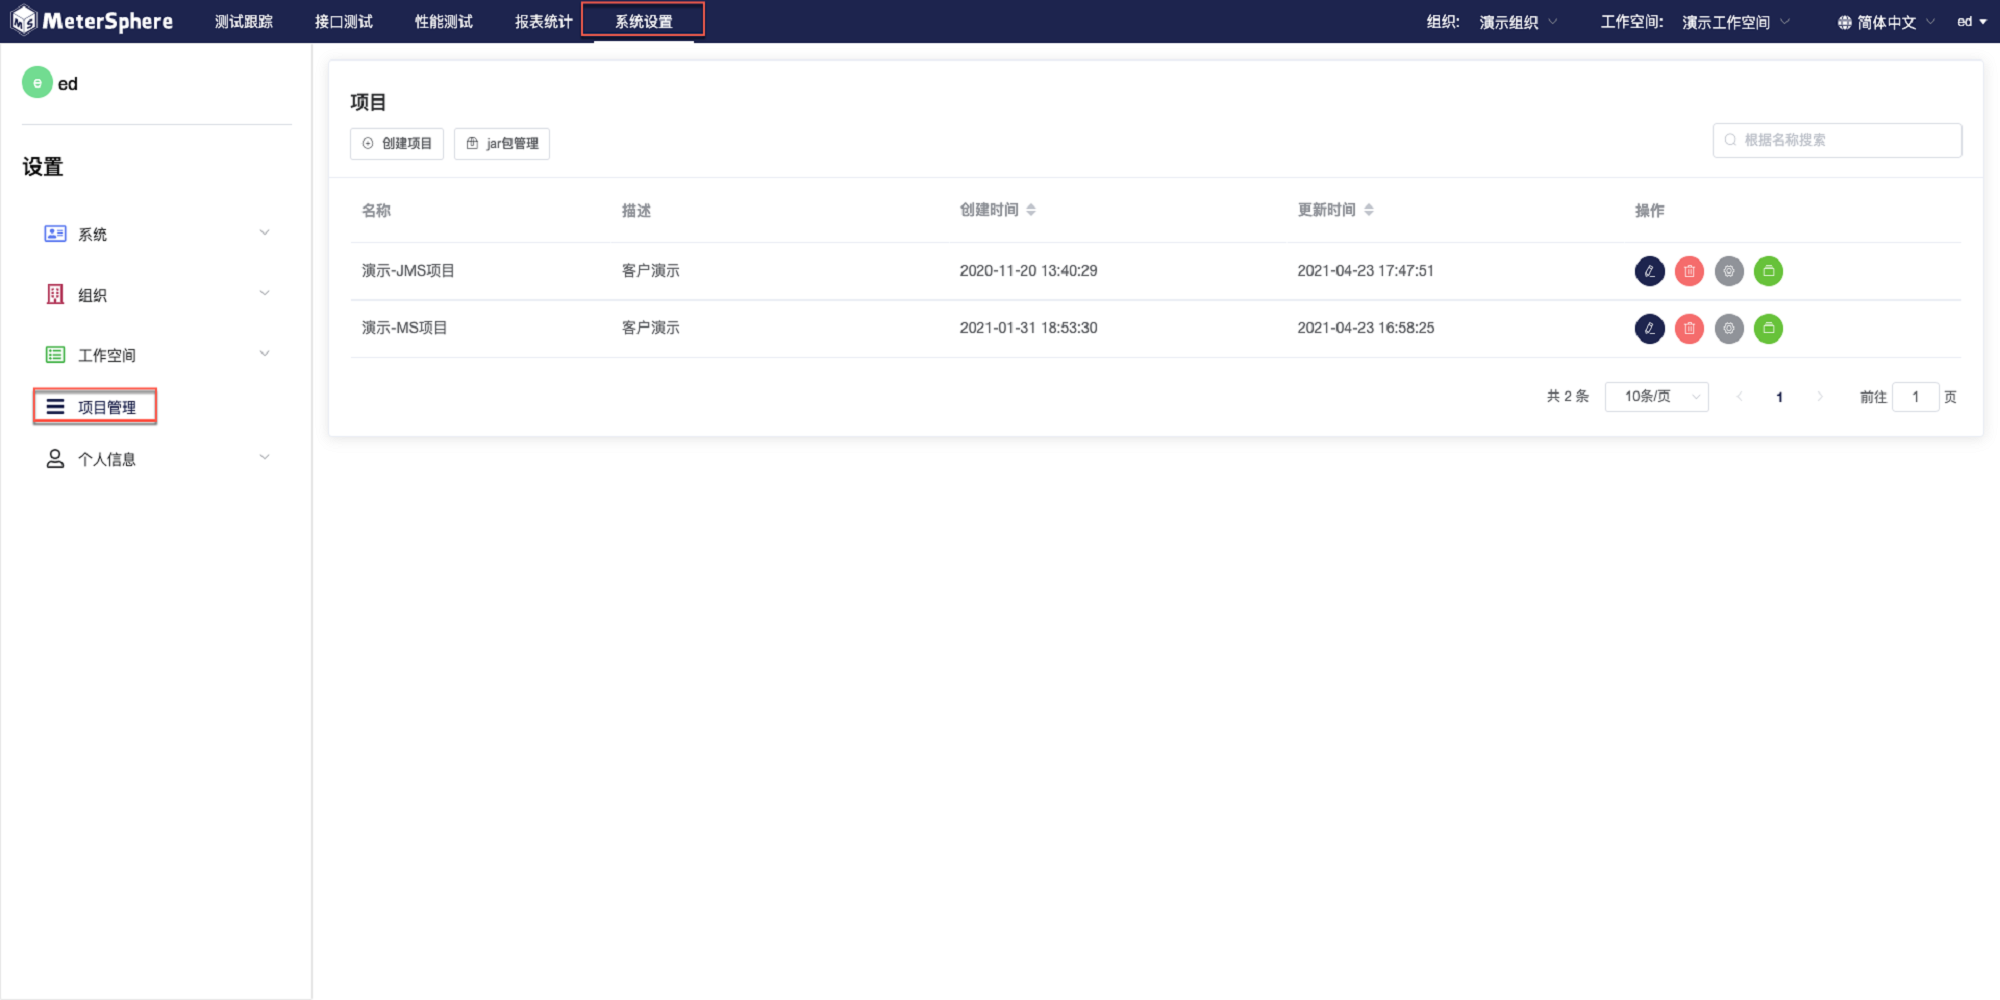
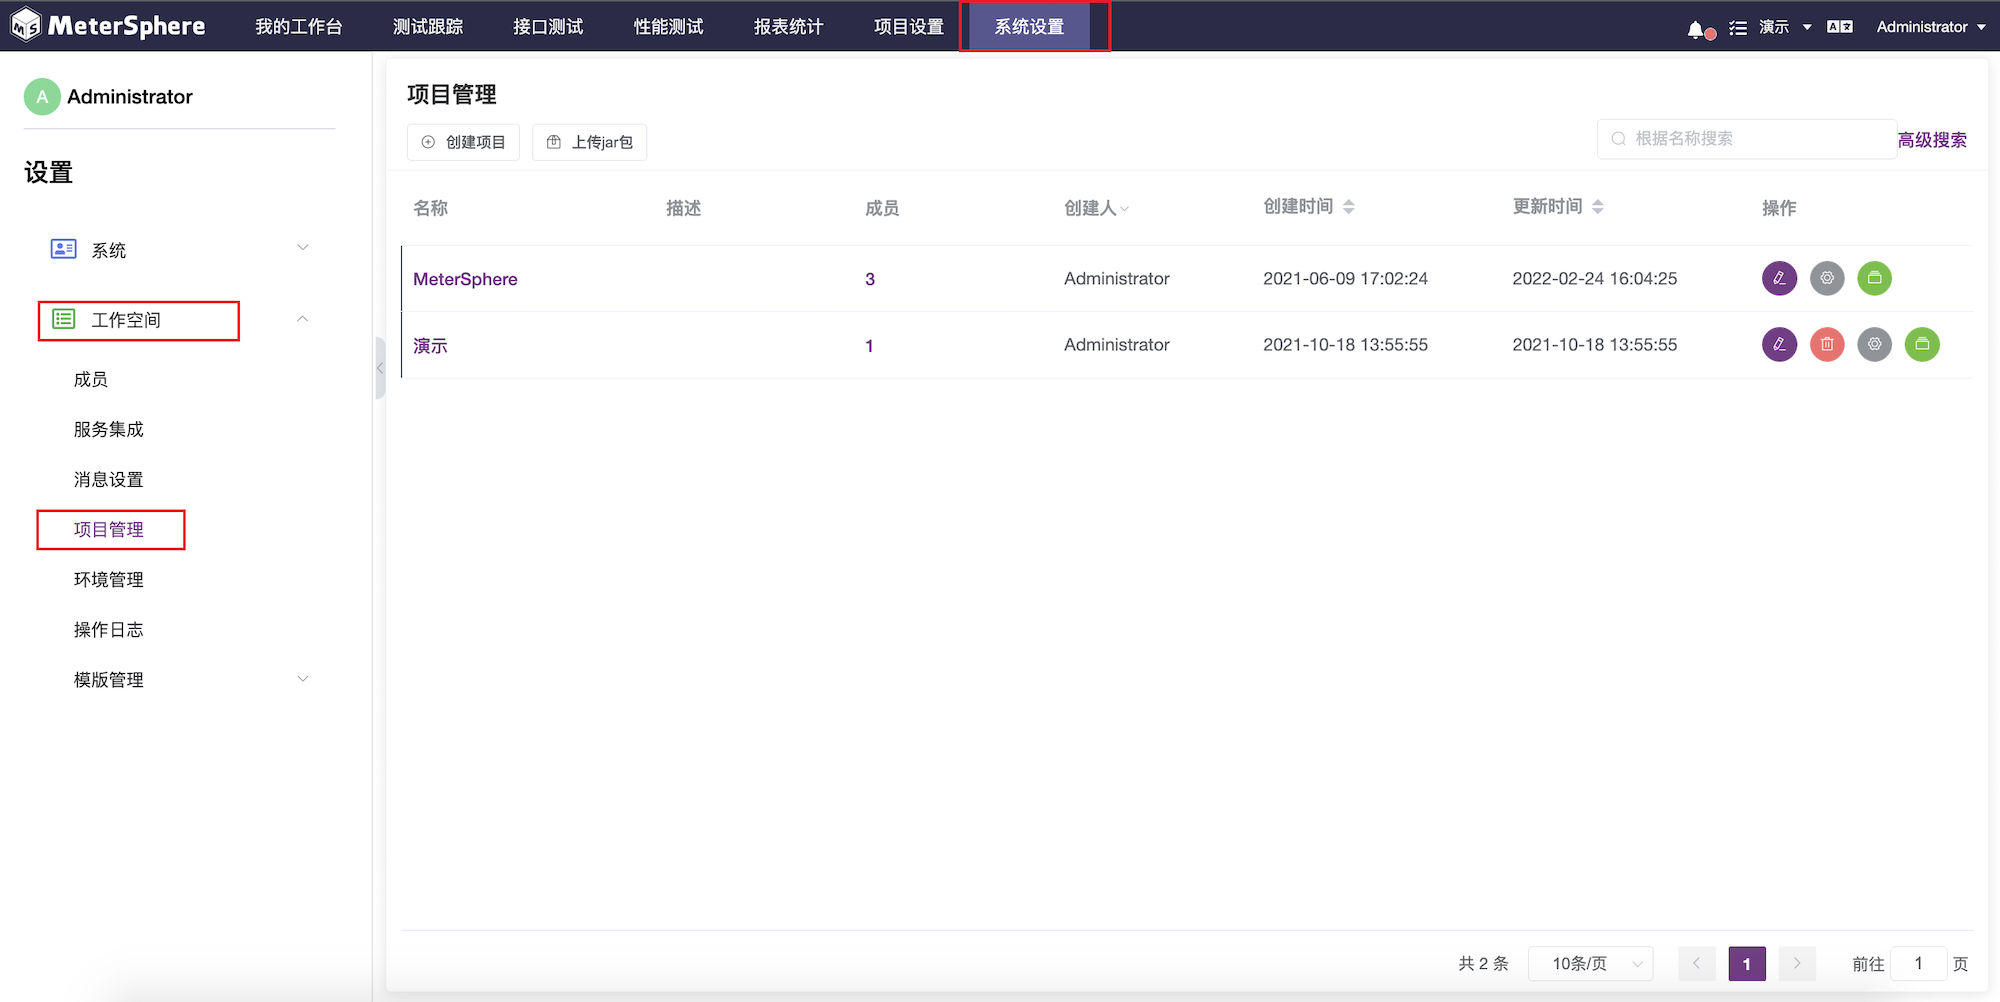
docs:修改图片

diff --git a/docs/quick_start/create_project.md b/docs/quick_start/create_project.md
@@ -2,7 +2,7 @@
 
 在 MeterSphere 中，测试用例、测试计划、接口测试及性能测试等功能及资源均通过项目的维度进行管理，进一步的管理模型说明请参考[管理模型](../system_arch.md#_2)。
 
-点击 `系统设置`--`项目管理` 菜单进入项目管理目录。
+点击 `系统设置->工作空间->项目管理` 菜单进入项目管理目录。
 ![!项目管理](../img/system_management/项目管理.png)
 
 点击右侧的 `创建项目` 按钮，输入项目的基本信息后，点击 `确定` 按钮创建一个新项目。
